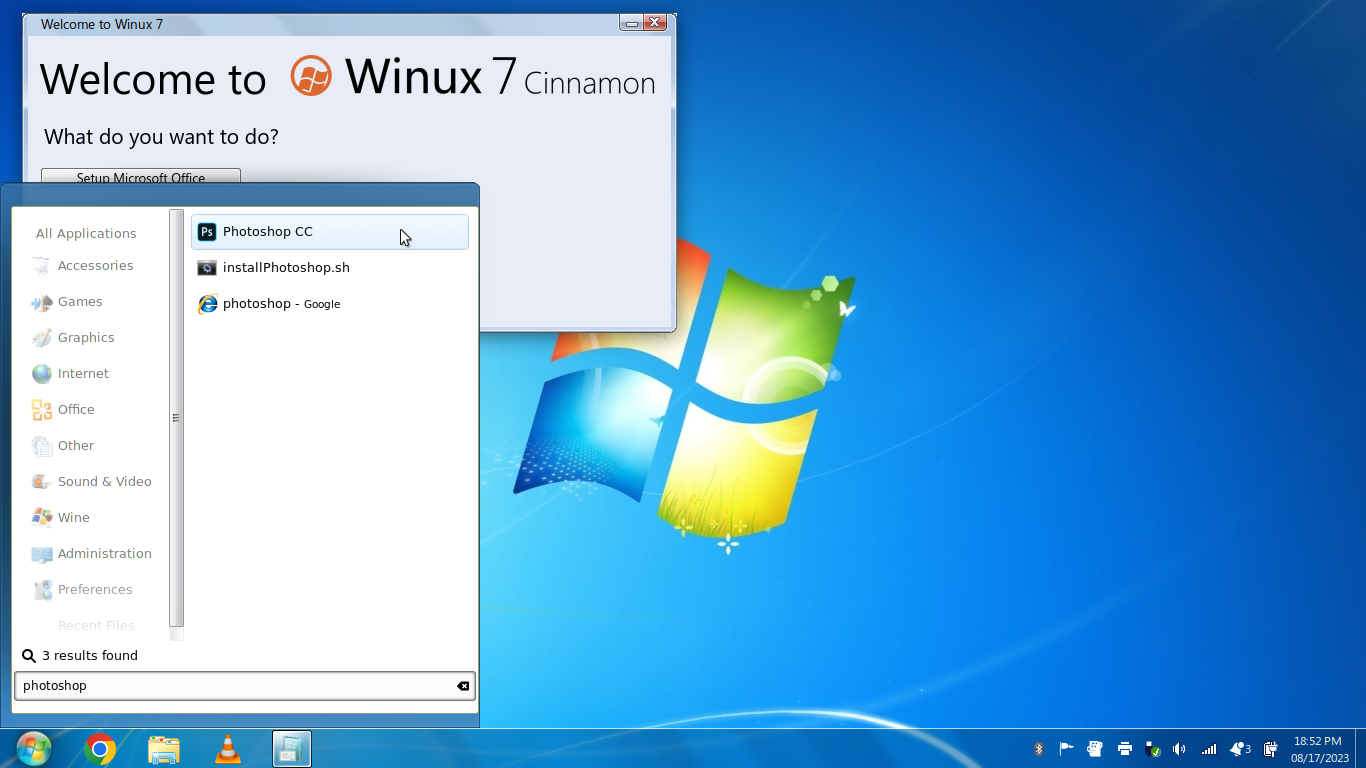
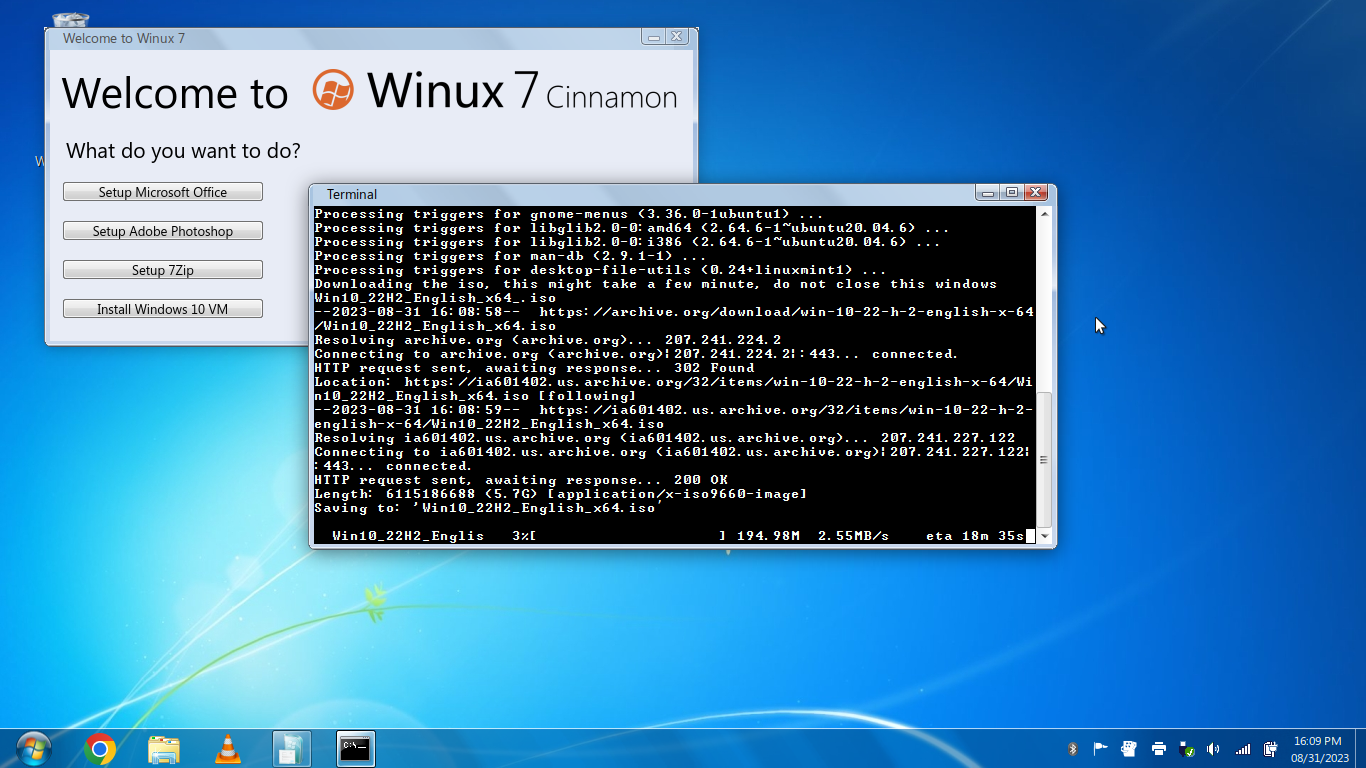
added install vm

diff --git a/winux7/troubleshoot/installvm/index.html b/winux7/troubleshoot/installvm/index.html
@@ -1,7 +1,7 @@
 <!DOCTYPE html PUBLIC "-//W3C//DTD XHTML 1.0 Transitional//EN" "http://www.w3.org/TR/xhtml1/DTD/xhtml1-transitional.dtd">
 <html xmlns="http://www.w3.org/1999/xhtml" dir="ltr" lang="en">
    <head>
-      <title>Install Adobe Photoshop - Winux7</title>
+      <title>Install Windows 10 VM - Winux7</title>
       <link rel="icon" type="image/x-icon" href="https://winux7.imggaavviinn.repl.co/Cin-dows.png">
       <meta http-equiv="X-UA-Compatible" content="IE=EmulateIE7"/>
       <meta http-equiv="Content-Type" content="text/html; charset=utf-8"/>
@@ -179,7 +179,7 @@ Download link template
 <br></br>
                                 
 
-<h1 style="color:white;">How to install Adobe Photoshop CC 19 using the 1-click installer</h1>
+<h1 style="color:white;">How to install the Windows 10 virtual machine using the 1-click installer</h1>
 
 <br>
 <br>                            
@@ -189,7 +189,7 @@ Download link template
         <img src="Step1.png" alt="Step 1 image" style="max-width:600px;width:100%">
         <div>
           <h2 style="color:white;">Step 1</h2>
-          <p>Click on the "Getting Started" entry in the start menu. This will open the welcome screen. Now click on Setup Adobe Photoshop, this will start the 1-click install process to install Adobe Photoshop CC 19 on your PC</p>
+          <p>Click on the "Getting Started" entry in the start menu. This will open the welcome screen. Now click on Install Windows 10 VM, this will help you to more easily install a Windows 10 VM </p>
           </p>
         </div>
       </li>
@@ -197,44 +197,152 @@ Download link template
         <img src="Step2.png" alt="Step 2 image" style="max-width:600px;width:100%">
         <div>
           <h2 style="color:white;">Step 2</h2>
-          <p>Wait for everything to load and click on "OK"</p>
+          <p>You can choose between different ways to download the Windows iso. You can just choose "1" if you are not sure know what your are doing.</p>
         </div>
       </li>
       <li>
         <img src="Step3.png" alt="Step 3 image" style="max-width:600px;width:100%">
         <div>
           <h2 style="color:white;">Step 3</h2>
-          <p>Click on next and photoshop will start installing</p>
-        </div>
-      </li>
-      <li>
-        <img src="Step4.png" alt="Step 4 image" style="max-width:600px;width:100%">
-        <div>
-          <h2 style="color:white;">Step 4</h2>
-          <p>Wait for the installation to finish</p>
+          <p>Wait for the script to install the necessary packages</p>
         </div>
       </li>
       <li>
         <img src="Step5.png" alt="Step 5 image" style="max-width:600px;width:100%">
         <div>
-          <h2 style="color:white;">Step 5</h2>
-          <p>Now you can search for photoshop from the start menu and launch it</p>
+          <h2 style="color:white;">Step 4</h2>
+          <p>If you choose 1 or 3, the terminal will download the iso. If you choose 2, Firefox Browser will open up and download the iso. This can take 5 minute or 2 hours depends on your internet speed.</p>
         </div>
       </li>
       <li>
         <img src="Step6.png" alt="Step 6 image" style="max-width:600px;width:100%">
         <div>
           <h2 style="color:white;">Step 6</h2>
-          <p>If you see the splash screen that mean you have successfully installed Adobe Photoshop</p>
+          <p>After the iso downloads, the Windows 10 installation will launch in a VM Window</p>
         </div>
       </li>
       <li>
         <img src="Step7.png" alt="Step 7 image" style="max-width:600px;width:100%">
         <div>
           <h2 style="color:white;">Step 7</h2>
-          <p>Enjoy!</p>
+          <p>Just click "I don't have a product key" if you don't have a key or don't plan activate the OS yet. You can still activate Windows 10 later</p>
         </div>
       </li>
+      <li>
+         <img src="Step8.png" alt="Step 1 image" style="max-width:600px;width:100%">
+         <div>
+           <h2 style="color:white;">Step 8</h2>
+           <p> Choose a Windows 10 version to install, Windows 10 Pro is recommended </p>
+           </p>
+         </div>
+       </li>
+       <li>
+         <img src="Step9.png" alt="Step 1 image" style="max-width:600px;width:100%">
+         <div>
+           <h2 style="color:white;">Step 9</h2>
+           <p> tick the checkbox to accept the license terms. And click "Next" </p>
+           </p>
+         </div>
+       </li>
+       <li>
+         <img src="Step10.png" alt="Step 1 image" style="max-width:600px;width:100%">
+         <div>
+           <h2 style="color:white;">Step 10</h2>
+           <p> Click on the "Custom: Install Windows only (advanced)" box, since the virtual disk have no partition so we will have to set it up our self </p>
+           </p>
+         </div>
+       </li>
+       <li>
+         <img src="Step11.png" alt="Step 1 image" style="max-width:600px;width:100%">
+         <div>
+           <h2 style="color:white;">Step 11</h2>
+           <p> Click on the "Drive 0 Unallocated Space" and click on "Next"</p>
+           </p>
+         </div>
+       </li>
+       <li>
+        <img src="Step12.png" alt="Step 12 image" style="max-width:600px;width:100%">
+        <div>
+          <h2 style="color:white;">Step 12</h2>
+          <p> Now the Windows 10 will start installing, this will take a while... </p>
+          </p>
+        </div>
+      </li>
+      <li>
+        <img src="Step14.png" alt="Step 14 image" style="max-width:600px;width:100%">
+        <div>
+          <h2 style="color:white;">Step 13</h2>
+          <p> After the installation, this screen will show-up you can now set up Windows 10 like how you would set up your Windows 10 PC </p>
+          </p>
+        </div>
+      </li>
+      <li>
+        <img src="Step31.png" alt="Step 31 image" style="max-width:600px;width:100%">
+        <div>
+          <h2 style="color:white;">Step 14</h2>
+          <p> There you go! You a got a working Windows 10 VM! However, you might feel the VM quite sluggish. This is because you need SPICE Guest Tools. It is like VirtualBox Guest Additions and VMware Tools, it helps the VM run smoother</p>
+          </p>
+        </div>
+      </li>
+      <li>
+        <img src="Step32.png" alt="Step 32 image" style="max-width:600px;width:100%">
+        <div>
+          <h2 style="color:white;">Step 15</h2>
+          <p> To start with, open up Edge or any web browser and go to https://www.spice-space.org/download.html or just search up "SPICE Guest Tools" and click on the first result</p>
+          </p>
+        </div>
+      </li>
+      <li>
+        <img src="Step33.png" alt="Step 33 image" style="max-width:600px;width:100%">
+        <div>
+          <h2 style="color:white;">Step 16</h2>
+          <p> Scroll down to "Windows binaries" and click on "spice-game-tools" </p>
+          </p>
+        </div>
+      </li>
+      <li>
+        <img src="Step34.png" alt="Step 34 image" style="max-width:600px;width:100%">
+        <div>
+          <h2 style="color:white;">Step 17</h2>
+          <p> Once the file is downloaded, run it </p>
+          </p>
+        </div>
+      </li>
+      <li>
+        <img src="Step35.png" alt="Step 35 image" style="max-width:600px;width:100%">
+        <div>
+          <h2 style="color:white;">Step 18</h2>
+          <p> Run through the installation and your VM will be faster </p>
+          </p>
+        </div>
+      </li>
+      <li>
+        <img src="Step37.png" alt="Step 1 image" style="max-width:600px;width:100%">
+        <div>
+          <h2 style="color:white;">Step 19</h2>
+          <p> Once you shutdown the VM you can start it again using the start menu. Just type "windows" in the start menu search-box!</p>
+          </p>
+        </div>
+      </li>
+      <li>
+        <img src="Step39.png" alt="Step 39 image" style="max-width:600px;width:100%">
+        <div>
+          <h2 style="color:white;">Step 20</h2>
+          <p> Here is a cool trick that can help you improve your productivity with the Windows VM </p>
+          </p>
+        </div>
+      </li>
+      <li>
+        <img src="Step40.png" alt="Step 40 image" style="max-width:600px;width:100%">
+        <div>
+          <h2 style="color:white;">Step 21</h2>
+          <p> Now the VM screen will fit to the windows space, so you don't have to search for the taskbar of the VM or be forced to use it in full screen </p>
+          </p>
+        </div>
+      </li>
+  
+
+
       
       </li>
       <!-- Add more steps as necessary -->

diff --git a/winux7/troubleshoot/index.html b/winux7/troubleshoot/index.html
@@ -169,7 +169,8 @@ Download link template
 <a href="installoffice"><h2 style="color:white;">How to install Microsoft Office 2007 using the 1-click installer</h2></a>                                    
 <br>
 <a href="installphotoshop"><h2 style="color:white;">How to Install Photoshop CC 19 using the 1-click installer</h2></a>                                    
-
+<br>
+<a href="installvm"><h2 style="color:white;">How to Install the Windows 10 VM using the 1-click installer</h2></a>   
 
 <br></br>
 
